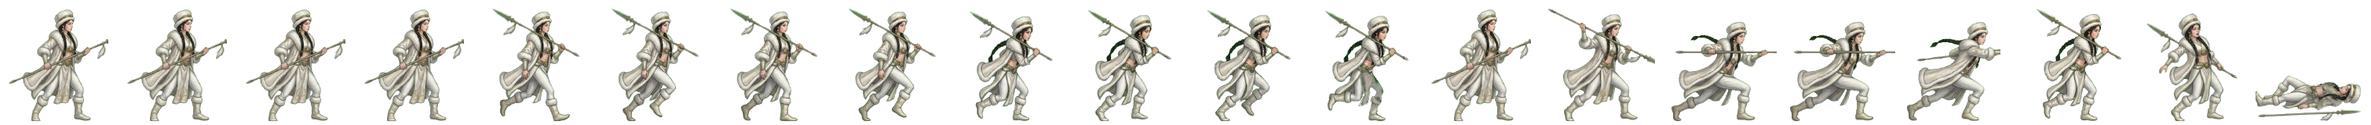
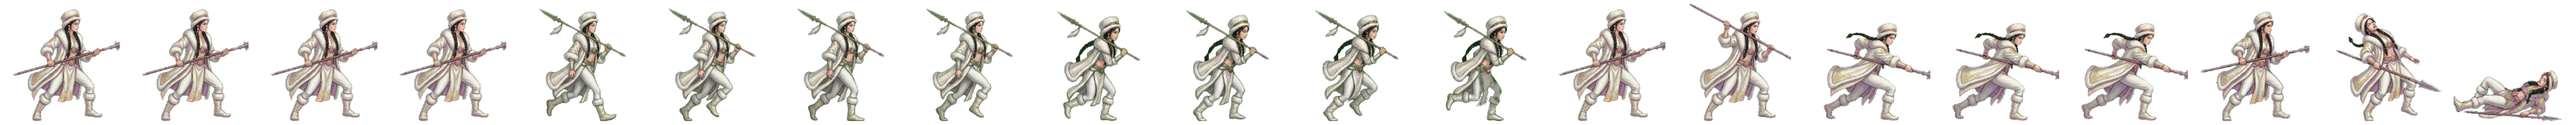
전투 띠 새로: 부여 가온 동작 다시 — 창을 두 손으로 잡고 아래로 찌른다 (흰 깃털 조각·창날 없는 찌르기 고침 · 제미나이 u/1 · 11-09 띠 검수) (형 11-08)
Claude-Session: https://claude.ai/code/session_01TRiuNAG8xSjdmjCFpc8Rd5

diff --git a/src/ui/realm/battle-strikes.ts b/src/ui/realm/battle-strikes.ts
@@ -143,7 +143,7 @@ const CONTACT: Readonly<Record<string, [number, number, number]>> = {
   'gen-haebi': [14, 0.87, 0.53], 'gen-heo': [14, 0.94, 0.46], 'gen-hyeokgeose': [14, 0.83, 0.94],
   'gen-hyeopbo': [14, .93, .21], 'gen-malgalgi': [14, 0.88, 0.28], 'gen-mari': [14, .98, .47],
   'gen-oi': [14, .98, .48], 'gen-onjo': [14, 0.83, 0.93], 'gen-soebi': [14, 0.80, 0.95],
-  'gen-soseono': [14, 0.92, 0.31], 'gen-maryeo': [14, 0.91, 0.79], 'gen-horselord': [14, 0.89, 0.25], 'gen-olddaeso': [14, 0.93, 0.91], 'gen-maro': [14, 0.97, 0.49], 'gen-gwaeyu': [14, 0.98, 0.71], 'gen-daemusin': [14, 0.91, 0.38], 'gen-tahae': [14, 0.91, 0.74], 'gen-ocheongan': [14, 0.82, 0.49], 'gen-yusugan': [14, 0.95, 0.70], 'gen-odogan': [14, 0.93, 0.28], 'gen-pidogan': [14, 0.94, 0.75], 'gen-yeodogan': [14, 0.93, 0.57], 'gen-adogan': [14, 0.95, 0.41], 'gen-musoe': [14, 0.94, 0.39], 'gen-suro': [14, 0.82, 0.53], 'gen-waechief': [14, 0.95, 0.68], 'gen-hojin': [14, 0.97, 0.64], 'gen-jita': [14, 0.94, 0.34], 'gen-guryema': [14, 0.89, 0.28], 'gen-jibaekho': [14, 0.97, 0.33], 'gen-sobeol': [14, 0.95, 0.33], 'gen-alpyeong': [14, 0.95, 0.54], 'gen-hogong': [14, 0.98, 0.27], 'gen-geumbawi': [14, 0.91, 0.92], 'gen-keundol': [14, 0.90, 0.68], 'gen-jinha': [14, 0.76, 0.93], 'gen-duman': [14, 0.97, 0.39], 'gen-gomok': [14, 0.94, 0.57], 'gen-hneoul': [14, 0.92, 0.27], 'gen-tneoul': [14, 0.84, 0.57], 'gen-sdallae': [14, 0.89, 0.29], 'gen-yucheongan': [14, 0.97, 0.64], 'gen-sincheongan': [14, 0.91, 0.71], 'gen-singwigan': [14, 0.91, 0.27], 'gen-mdallae': [14, 0.98, 0.30], 'gen-mulbeom': [14, 0.97, 0.36], 'gen-beomi': [14, 0.88, 0.43], 'gen-danbi': [14, 0.90, 0.30], 'gen-mulsae': [14, 0.87, 0.36], 'gen-darae': [14, 0.89, 0.29], 'gen-mir': [14, 0.91, 0.33], 'gen-wan': [14, 0.94, 0.30], 'gen-gom': [14, 0.94, 0.74], 'gen-sagong': [14, 0.79, 0.96], 'gen-halla': [14, 0.86, 0.46], 'gen-areum': [14, 0.86, 0.65], 'gen-dokmudeom': [14, 0.92, 0.29], 'gen-beom': [14, 0.98, 0.28], 'gen-baram': [14, 0.96, 0.24], 'gen-goeun': [14, 0.95, 0.66], 'gen-byeol': [14, 0.76, 0.96], 'gen-sinneoul': [14, 0.94, 0.33], 'gen-haesol': [14, 0.94, 0.34], 'gen-odi': [14, 0.96, 0.46], 'gen-irang': [14, 0.86, 0.30], 'gen-dalli': [14, 0.89, 0.32], 'gen-bakdal': [14, 0.94, 0.27], 'gen-noeul': [14, 0.88, 0.27], 'gen-maehwa': [14, 0.90, 0.31], 'gen-gaon': [14, 0.98, 0.41], 'gen-eomni': [14, 0.96, 0.42], 'gen-nuri': [14, 0.98, 0.34], 'gen-bira': [14, 0.88, 0.33], 'gen-gureum': [14, 0.98, 0.42],
+  'gen-soseono': [14, 0.92, 0.31], 'gen-maryeo': [14, 0.91, 0.79], 'gen-horselord': [14, 0.89, 0.25], 'gen-olddaeso': [14, 0.93, 0.91], 'gen-maro': [14, 0.97, 0.49], 'gen-gwaeyu': [14, 0.98, 0.71], 'gen-daemusin': [14, 0.91, 0.38], 'gen-tahae': [14, 0.91, 0.74], 'gen-ocheongan': [14, 0.82, 0.49], 'gen-yusugan': [14, 0.95, 0.70], 'gen-odogan': [14, 0.93, 0.28], 'gen-pidogan': [14, 0.94, 0.75], 'gen-yeodogan': [14, 0.93, 0.57], 'gen-adogan': [14, 0.95, 0.41], 'gen-musoe': [14, 0.94, 0.39], 'gen-suro': [14, 0.82, 0.53], 'gen-waechief': [14, 0.95, 0.68], 'gen-hojin': [14, 0.97, 0.64], 'gen-jita': [14, 0.94, 0.34], 'gen-guryema': [14, 0.89, 0.28], 'gen-jibaekho': [14, 0.97, 0.33], 'gen-sobeol': [14, 0.95, 0.33], 'gen-alpyeong': [14, 0.95, 0.54], 'gen-hogong': [14, 0.98, 0.27], 'gen-geumbawi': [14, 0.91, 0.92], 'gen-keundol': [14, 0.90, 0.68], 'gen-jinha': [14, 0.76, 0.93], 'gen-duman': [14, 0.97, 0.39], 'gen-gomok': [14, 0.94, 0.57], 'gen-hneoul': [14, 0.92, 0.27], 'gen-tneoul': [14, 0.84, 0.57], 'gen-sdallae': [14, 0.89, 0.29], 'gen-yucheongan': [14, 0.97, 0.64], 'gen-sincheongan': [14, 0.91, 0.71], 'gen-singwigan': [14, 0.91, 0.27], 'gen-mdallae': [14, 0.98, 0.30], 'gen-mulbeom': [14, 0.97, 0.36], 'gen-beomi': [14, 0.88, 0.43], 'gen-danbi': [14, 0.90, 0.30], 'gen-mulsae': [14, 0.87, 0.36], 'gen-darae': [14, 0.89, 0.29], 'gen-mir': [14, 0.91, 0.33], 'gen-wan': [14, 0.94, 0.30], 'gen-gom': [14, 0.94, 0.74], 'gen-sagong': [14, 0.79, 0.96], 'gen-halla': [14, 0.86, 0.46], 'gen-areum': [14, 0.86, 0.65], 'gen-dokmudeom': [14, 0.92, 0.29], 'gen-beom': [14, 0.98, 0.28], 'gen-baram': [14, 0.96, 0.24], 'gen-goeun': [14, 0.95, 0.66], 'gen-byeol': [14, 0.76, 0.96], 'gen-sinneoul': [14, 0.94, 0.33], 'gen-haesol': [14, 0.94, 0.34], 'gen-odi': [14, 0.96, 0.46], 'gen-irang': [14, 0.86, 0.30], 'gen-dalli': [14, 0.89, 0.32], 'gen-bakdal': [14, 0.94, 0.27], 'gen-noeul': [14, 0.88, 0.27], 'gen-maehwa': [14, 0.90, 0.31], 'gen-gaon': [14, 0.98, 0.59], 'gen-eomni': [14, 0.96, 0.42], 'gen-nuri': [14, 0.98, 0.34], 'gen-bira': [14, 0.88, 0.33], 'gen-gureum': [14, 0.98, 0.42],
   'gen-biryu': [14, 0.90, 0.35], 'gen-geumha': [14, 0.94, 0.61], 'gen-geota': [14, 0.86, 0.47], 'gen-soebo': [14, 0.87, 0.57],
   'gen-gaennae': [14, 249 / 264, 47 / 160],
   'gen-budeul': [14, 266 / 280, 51 / 160],

diff --git a/src/realm/data/art.ts b/src/realm/data/art.ts
@@ -513,7 +513,7 @@ export const GEN_ANIM: Readonly<Partial<Record<string, { ar: number; body: numbe
   bakdal: { ar: 155 / 160, body: 0.894, bow: true }, // 11-08 초상대로 다시 (형: 「투구 쓰고 원본과 다르다」 · 제미나이 걷기 4×2 + 동작 4×2 → 20컷 · assets_src/realm/gemini/generals2) · 11-08 처음 · 범 가죽 짧은 망토·황토 짧은 윗옷·뼈 구슬 목걸이·큰 맥궁
   noeul: { ar: 153 / 160, body: 0.881, bow: true }, // 11-08 초상대로 다시 (형: 「투구 쓰고 원본과 다르다」 · 제미나이 걷기 4×2 + 동작 4×2 → 20컷 · assets_src/realm/gemini/generals2) · 11-08 처음 · 땋은 머리·주황 짧은 비단 윗옷과 치마·흰 깃 화살통·맥궁
   maehwa: { ar: 143 / 160, body: 0.894, bow: true }, // 11-08 초상대로 다시 (형: 「투구 쓰고 원본과 다르다」 · 제미나이 걷기 4×2 + 동작 4×2 → 20컷 · assets_src/realm/gemini/generals2) · 11-08 처음 · 깃 머리띠·짙은 붉은 짧은 저고리·꿩깃 화살통·맥궁
-  gaon: { ar: 151 / 160, body: 0.894 }, // 11-08 초상대로 다시 (형: 「투구 쓰고 원본과 다르다」 · 제미나이 걷기 4×2 + 동작 4×2 → 20컷 · assets_src/realm/gemini/generals2) · 11-08 처음 · 흰 털모자·흰 털 짧은 겉옷·흰 술 창 찌르기
+  gaon: { ar: 164 / 160, body: 0.894 }, // 11-08 초상대로 다시 (형: 「투구 쓰고 원본과 다르다」 · 제미나이 걷기 4×2 + 동작 4×2 → 20컷 · assets_src/realm/gemini/generals2) · 11-08 처음 · 부여 가온 동작 다시 — 창을 두 손으로 잡고 아래로 찌른다 (흰 깃털 조각·창날 없는 찌르기 고침 · 제미나이 u/1 · 11-09 띠 검수)
   eomni: { ar: 159 / 160, body: 0.900 }, // 11-08 초상대로 다시 (형: 「투구 쓰고 원본과 다르다」 · 제미나이 걷기 4×2 + 동작 4×2 → 20컷 · assets_src/realm/gemini/generals2) · 11-08 처음 · 땋은 머리·검은 곰 털 망토·짧은 흰 윗옷·이빨 목걸이·쇠 창 찌르기 · 걷기는 창을 어깨에 멘 아랫줄만
   nuri: { ar: 162 / 160, body: 0.900 }, // 11-08 초상대로 다시 (형: 「투구 쓰고 원본과 다르다」 · 제미나이 걷기 4×2 + 동작 4×2 → 20컷 · assets_src/realm/gemini/generals2) · 11-08 처음 · 흰 털 어깨 망토·크림빛 비단 옷·금 목걸이·창 찌르기 · 걷기는 창을 어깨에 멘 아랫줄만
   bira: { ar: 156 / 160, body: 0.900 }, // 11-08 초상대로 다시 (형: 「투구 쓰고 원본과 다르다」 · 제미나이 걷기 4×2 + 동작 4×2 → 20컷 · assets_src/realm/gemini/generals2) · 11-08 처음 · 푸른 깃 머리띠·푸른 짧은 조끼·밧줄 타래·조개 목걸이·작살 창 찌르기 · 걷기는 아랫줄만
